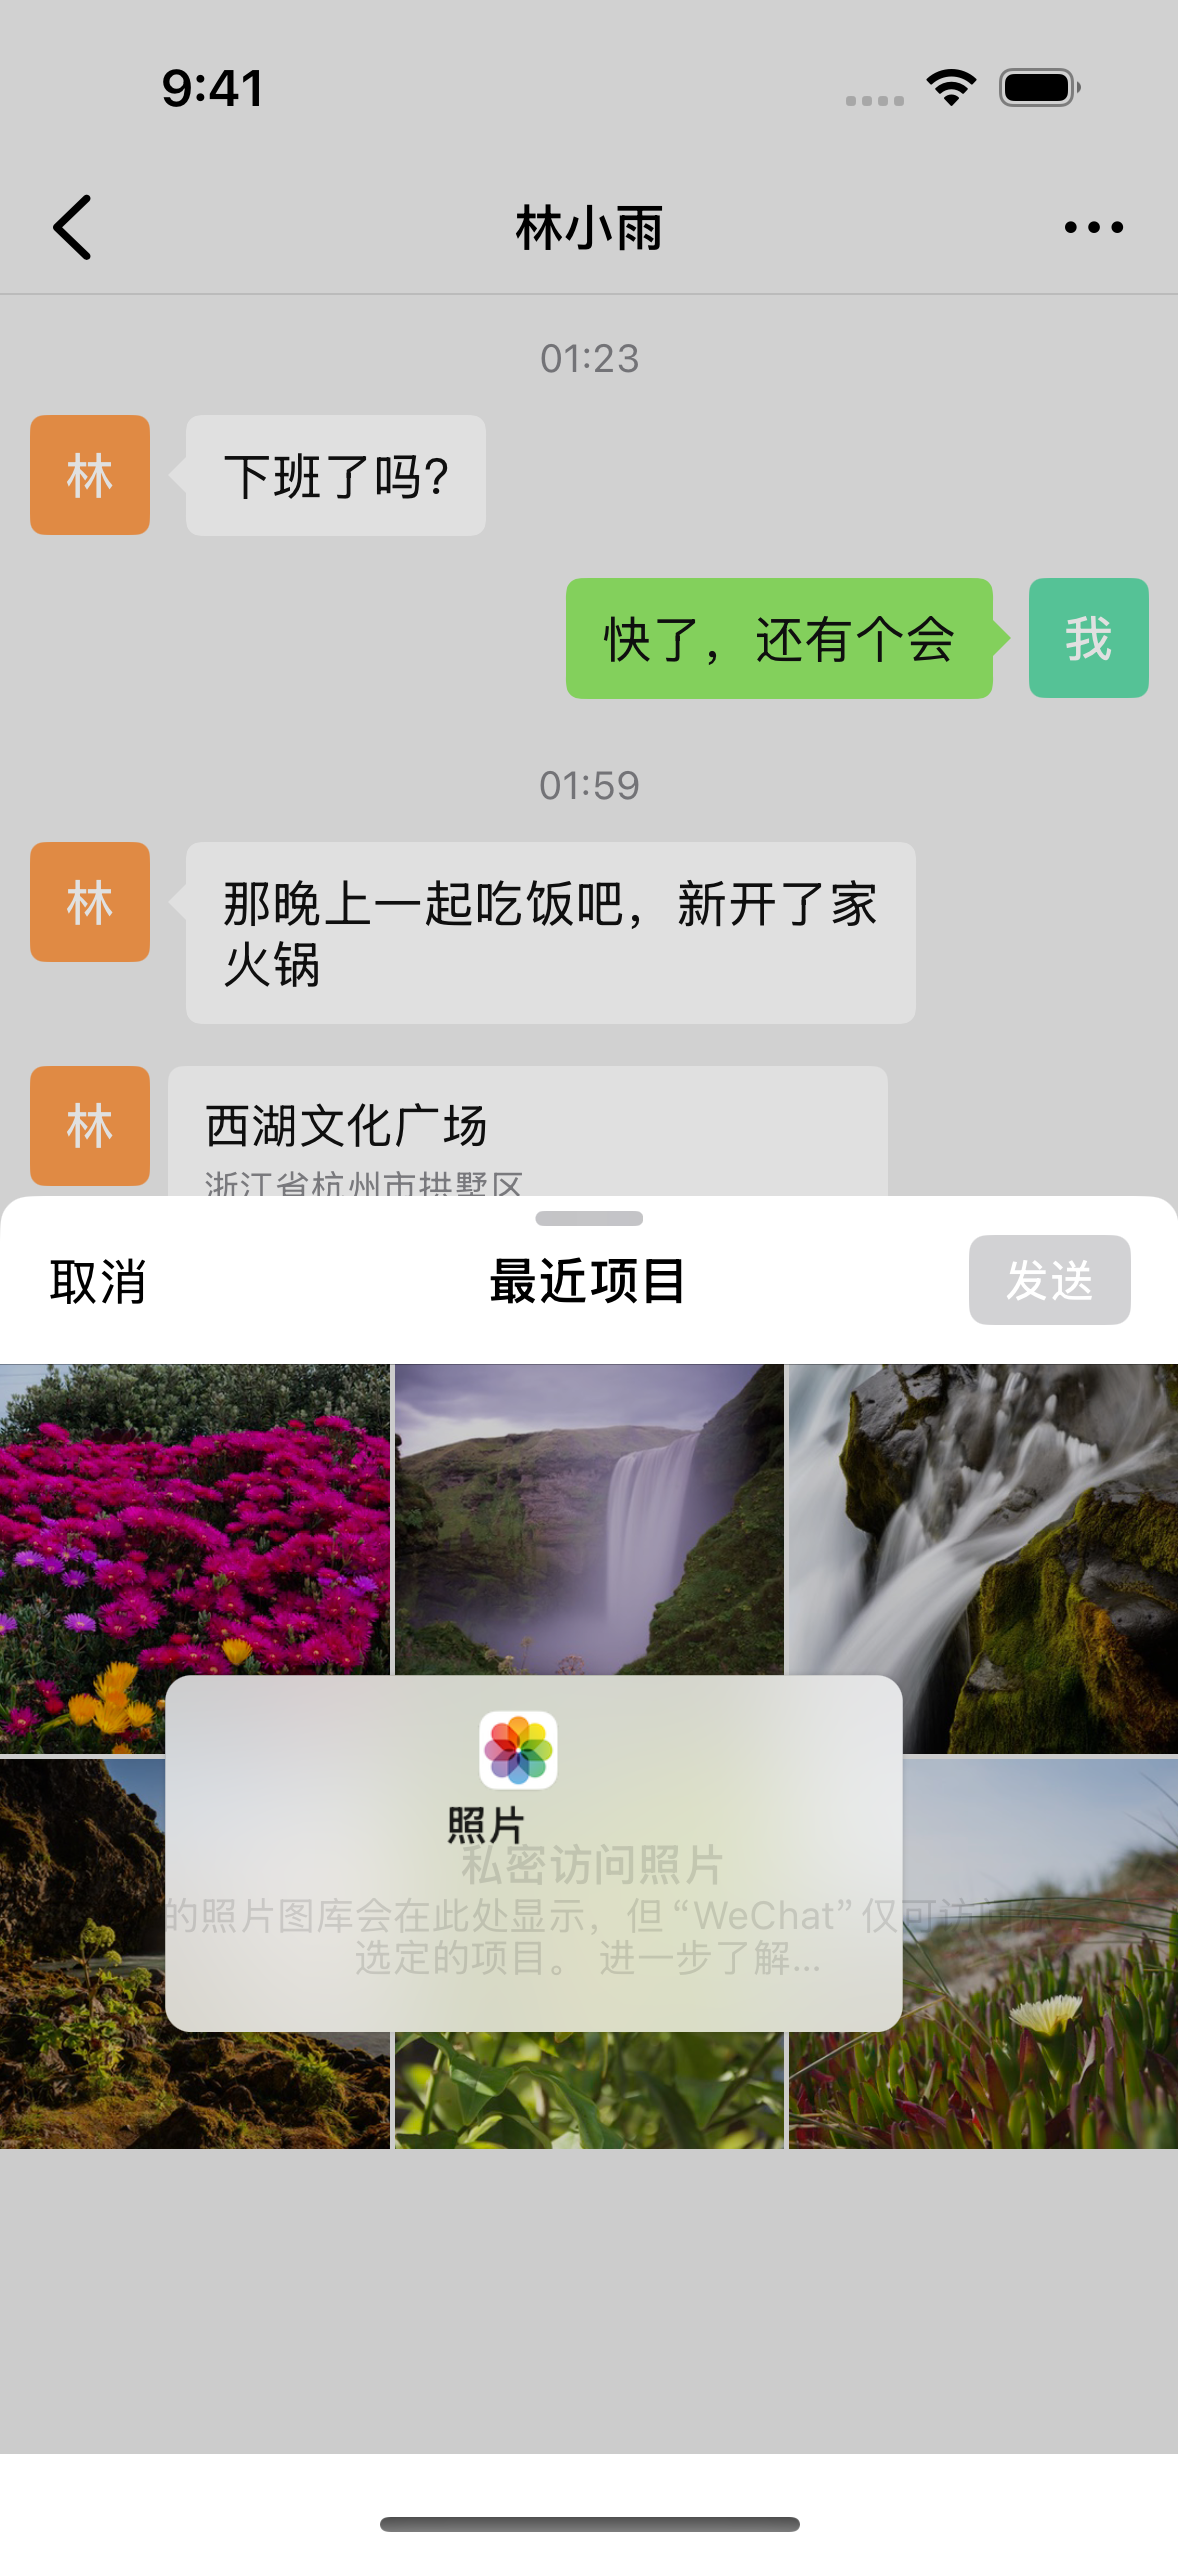
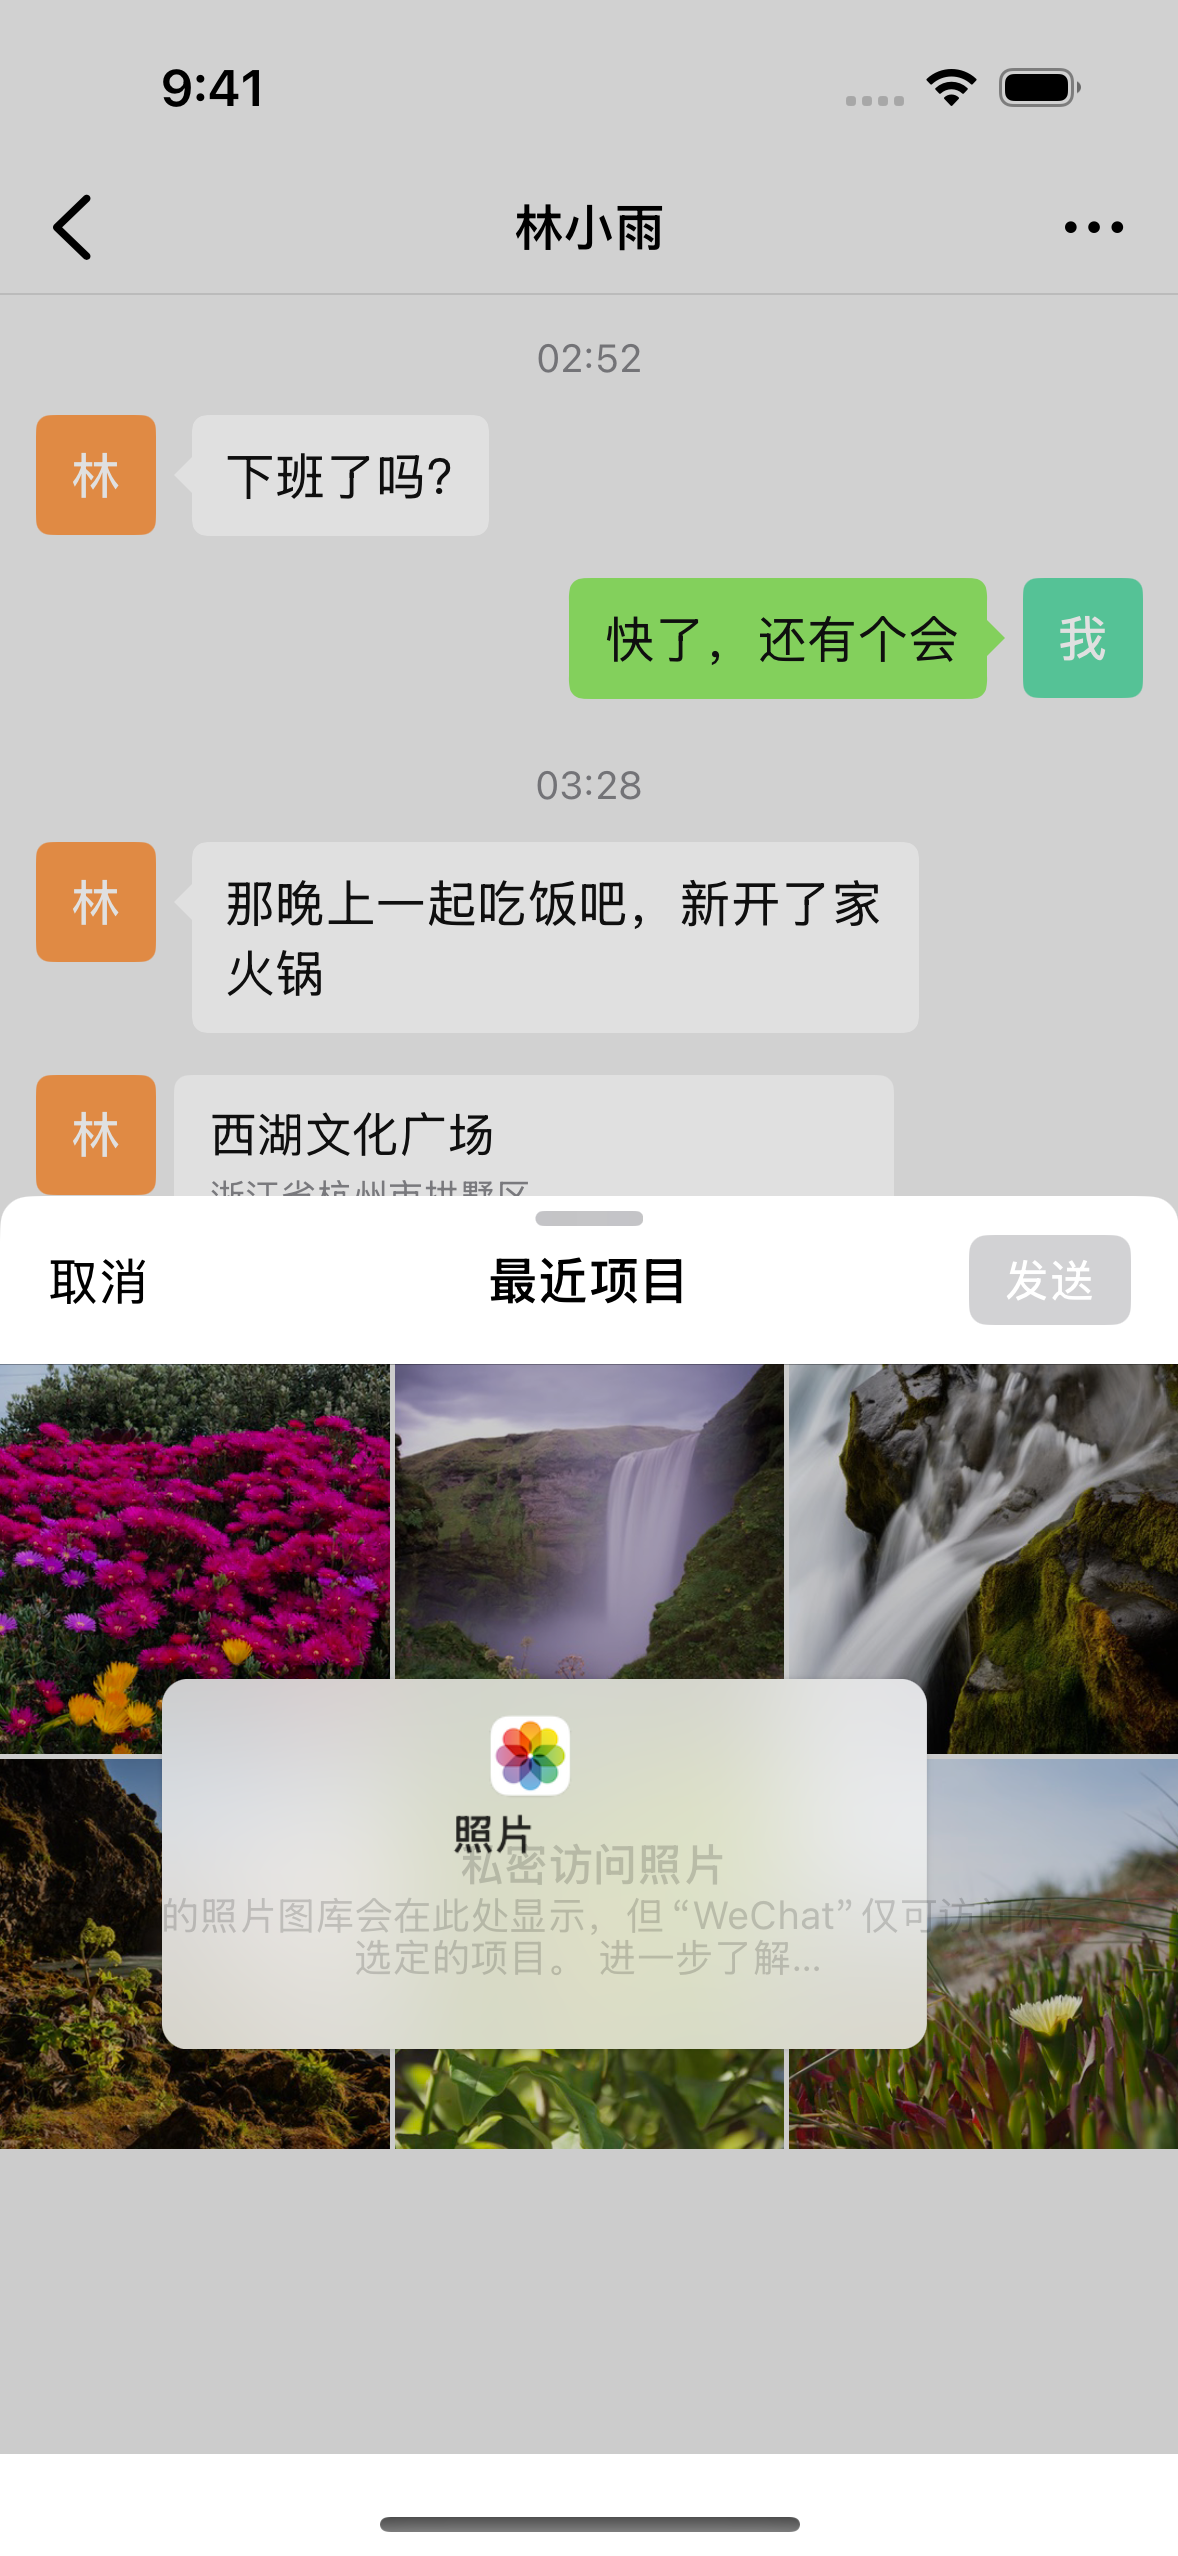
Document 1.4.1 fixes and cross-checked size specs

diff --git a/README.md b/README.md
@@ -1,6 +1,6 @@
 # WeChat · 本地仿真项目
 
-原项目名 QingLiao；桌面名称保持“WeChat”以兼容 SideStore，应用内首页和底部标签为“微信”，保留微信图标。当前版本 1.4.0（构建 6）：在实机截图和 2026 年新版微信界面的基础上，为"我""发现""通讯录"的每个入口加上本地可用的基础功能，并支持群聊、语音消息、名片和模拟音视频通话。原生 SwiftUI + SwiftData，最低 iOS 17，本地运行，不需要服务器或登录。
+原项目名 QingLiao；桌面名称保持“WeChat”以兼容 SideStore，应用内首页和底部标签为“微信”，保留微信图标。当前版本 1.4.1（构建 7）：在实机截图和 2026 年新版微信界面的基础上，为"我""发现""通讯录"的每个入口加上本地可用的基础功能，并支持群聊、语音消息、名片和模拟音视频通话。原生 SwiftUI + SwiftData，最低 iOS 17，本地运行，不需要服务器或登录。
 
 这是独立的演示应用，不连接腾讯微信服务。“我 → 设置”可查看功能范围。使用独立应用标识，可以与官方微信同时安装，数据各自独立。
 
@@ -15,7 +15,7 @@
 - `project-personal.yml`：个人安装版，不含 App Groups 和分享扩展，支持文字粘贴与相册选图。
 - `project.yml`：包含系统分享扩展的完整配置，需要对应签名能力。
 
-打开 [构建与 IPA 下载](https://github.com/Siper99/wechat-local-demo/actions/workflows/build-ios.yml)，选择最新成功构建，在 Artifacts 下载 `WeChat-Simulator-unsigned`。解压后用 SideStore 或 AltStore Classic 签名安装。新版应显示 `WeChat`、版本 `1.4.0`；旧中文名称安装包会触发部分 SideStore 版本的 `appIdName` 错误。尚未完成真机签名安装验证。
+打开 [构建与 IPA 下载](https://github.com/Siper99/wechat-local-demo/actions/workflows/build-ios.yml)，选择最新成功构建，在 Artifacts 下载 `WeChat-Simulator-unsigned`。解压后用 SideStore 或 AltStore Classic 签名安装。新版应显示 `WeChat`、版本 `1.4.1`；旧中文名称安装包会触发部分 SideStore 版本的 `appIdName` 错误。尚未完成真机签名安装验证。
 
 ## 仿真功能
 
@@ -24,7 +24,7 @@
 | 聊天列表 | 搜索、草稿、置顶、免打扰、未读；左滑圆角“标为未读 / 删除”；群聊九宫格头像 |
 | 聊天 | 文字、图片、表情与收藏表情、语音消息（按住说话、上滑取消）、位置、名片、模拟音视频通话、引用、转发、收藏、撤回、多选删除 |
 | 群聊 | 发起群聊、成员昵称、添加成员、修改群名、退出群聊；编辑模式可选择由哪位成员发言 |
-| 我 → 服务 | 各服务入口可打开；收付款、钱包等资金功能只显示说明页，不提供余额、转账和收款码 |
+| 我 → 服务 | 各服务入口可打开；钱包 → 零钱显示本地演示金额（可演示充值/提现，始终标注“演示”）；收付款、转账、收款码不提供 |
 | 我 → 收藏 | 聊天收藏 + 笔记，按类型筛选、搜索、删除 |
 | 朋友圈 | 发表文字和最多 9 张图、位置、点赞、评论和回复、删除、更换封面；好友朋友圈；“仅聊天”好友不显示 |
 | 作品 / 视频号 | 从相册导入视频，竖向翻页播放、点赞 |
@@ -34,7 +34,7 @@
 | 发现 | 直播（前置相机本机预览）、扫一扫（相机或相册识别二维码）、听一听（导入本地音乐播放）、看一看（公众号文章、在看）、搜一搜（本机全局搜索 + 网页搜索）、附近的人（地图显示自己位置）、游戏（2048）、小程序（计算器、记事本、自定义网页） |
 | 通讯录 | 新的朋友（接受申请）、仅聊天的朋友、群聊、标签、公众号 / 服务号文章、好友资料（备注和标签、朋友权限、朋友圈、音视频通话） |
 
-红包、转账、收付款刻意不做成可用功能，以免生成的界面被误当作真实支付凭证。联网账号、真实通话、企业微信等需要服务器的功能只保留说明页。
+红包、转账、收付款刻意不做成可用功能（零钱只显示带“演示”标注的本地金额），以免生成的界面被误当作真实支付凭证。联网账号、真实通话、企业微信等需要服务器的功能只保留说明页。
 
 首次启动有示例联系人和聊天。没有真实联网消息、推送或官方微信聊天记录同步。
 

diff --git a/docs/design-qa.md b/docs/design-qa.md
@@ -1,3 +1,33 @@
+# WeChat 1.4.1 修复与规格核对
+
+## 修复
+
+| 问题 | 原因 | 修改 | 验证 |
+|---|---|---|---|
+| 通讯录 → 新的朋友“卡死” | 没有好友申请时，全屏空状态覆盖在列表上，挡住“添加朋友”，所有点击无反应 | 空状态改为列表里的一行；看一看、标签、公众号、收藏、记事本等纯提示空状态均改为不拦截点击 | UI 测试删除申请后点“添加朋友”能打开新建联系人 |
+| 首页 ＋ 为系统菜单 | — | 改为微信深色浮层：宽 160、行高 56、16pt 白字、白色图标、分隔线从 50pt 起、BG-4 #4C4C4C、带指向 ＋ 的三角 | [截图](screenshots/30-plus-menu.png) |
+| 零钱不显示金额 | 1.4.0 不做余额 | 钱包 → 零钱显示金额，可演示充值/提现并记录明细；金额下方和列表旁固定标注“演示”，不代表真实资金 | [截图](screenshots/31-change.png)，UI 测试充值 88.8 后显示 ¥88.80 |
+
+## 尺寸与颜色规格（网上资料 + 实机截图交叉核对）
+
+资料来源：微信官方设计团队的 [WeUI](https://github.com/Tencent/weui)（`weui-cell.less`、`theme/vars/light.less`、`dark.less`），参考实现 [WeChatSwift](https://github.com/alexiscn/WeChatSwift)（`SessionCellNode`、`WCTableCellNode`、`MessageCellNode`、`TextContentNode`、`SessionMoreMenuView`），以及用户提供的 iPhone 实机截图（1178×2556，按 3x 换算为 pt 实测）。两者不一致时以实机截图为准。
+
+| 项目 | 资料 | 实机实测 | 1.4.1 取值 |
+|---|---|---|---|
+| 设置类单元格 | 高 56，左右 16，正文 17，箭头 12×24 | 行高约 56 | 56 / 16 / 17 / 12×24 |
+| 分组间距 | WeUI cellsMarginTop 8 | 约 7–8 | 8 |
+| 会话行 | 高 72，头像 48，左 16，标题/摘要间距 6，免打扰图标 15 | 行高约 72，分隔线从 76 起 | 同左 |
+| 通讯录行 | — | 行高约 56，图标约 40 | 56 / 40 |
+| 聊天头像与边距 | 头像 40，左右 12 | 头像约 41，右边距约 12 | 40 / 12（原为 10） |
+| 文字气泡 | 字号 17，行距 3，上下 10，内侧 12，箭头侧 15（我）/17（对方） | 气泡高约 40 | 同左（原箭头侧 18，无行距） |
+| 背景色 | BG-0 #EDEDED，BG-1 #F7F7F7，BG-2 #FFFFFF；深色 #111 / #1E1E1E / #191919 | #EDEDED、#F7F7F7 | 同左（深色单元格原为纯黑，改 #191919） |
+| 文字色 | FG-0 90%，FG-1 55%，FG-2 30%，分隔线 10% | 时间 #B2B2B2（30%），摘要约 #A0A0A0 | 时间、箭头 30%；摘要 #A0A0A0 |
+| ＋ 菜单 | 宽 160、行高 56、16pt、分隔线 x=50；BG-4 #4C4C4C | — | 同左 |
+
+[1.4.1 构建与测试](https://github.com/Siper99/wechat-local-demo/actions/runs/35814813324)：IPA 构建成功，8 项 UI 测试全部通过。
+
+---
+
 # WeChat 1.4.0 基础功能
 
 在 1.3.0 界面基础上，为“我”“发现”“通讯录”的每个入口加上本地可用的基础功能。所有数据只存在本机，示例人物与文章均为虚构。
